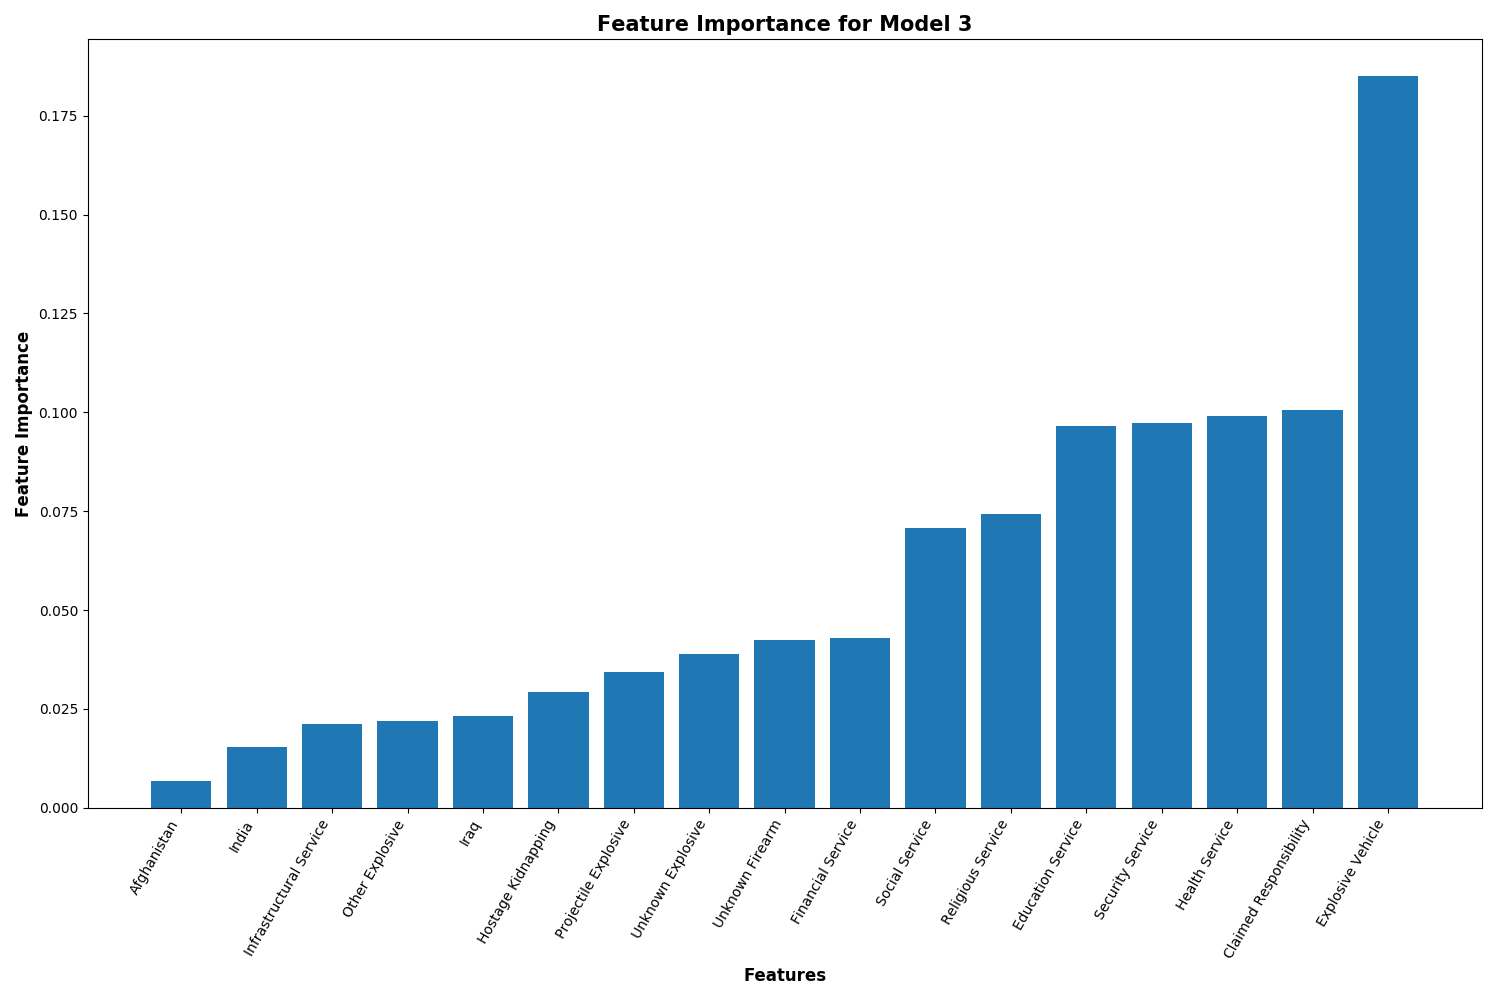
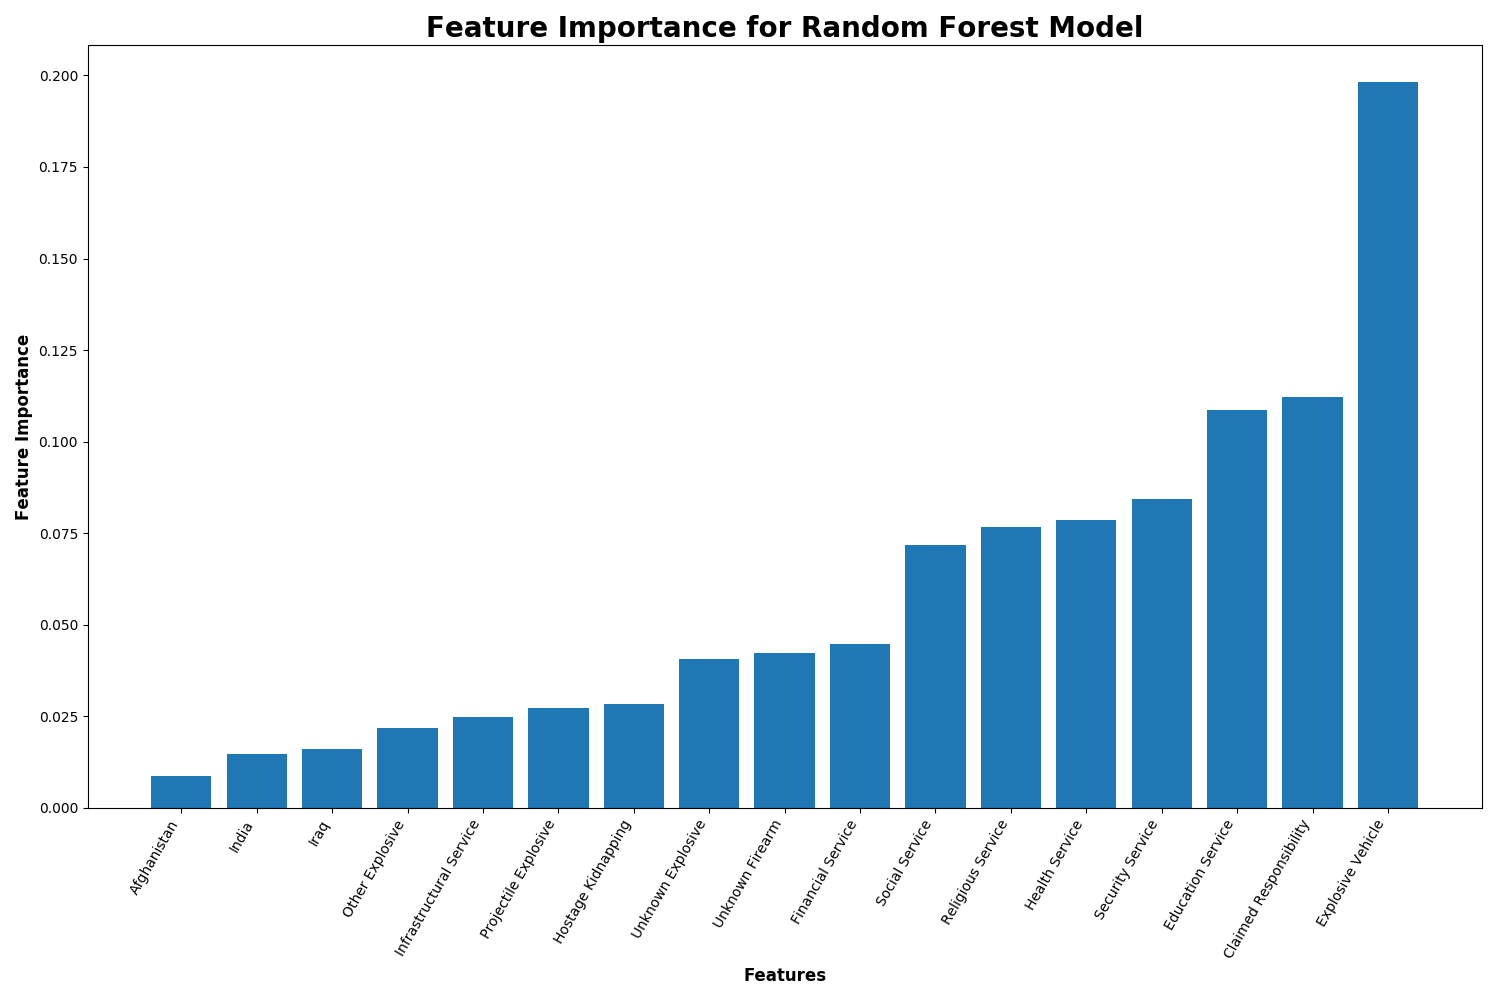
another image fix

diff --git a/code/code_for_modeling.py b/code/code_for_modeling.py
@@ -200,7 +200,7 @@ def feat_imp(importances):
 
     plt.figure(figsize = (15,10))
     plt.bar(feature_names, feature_importances)
-    plt.title('Feature Importance for Model 3', weight='bold', fontsize=15)
+    plt.title('Feature Importance for Random Forest Model', weight='bold', fontsize=15)
     plt.ylabel("Feature Importance", weight='bold', fontsize=12)
     plt.xlabel("Features", weight='bold', fontsize=12)
     plt.xticks(rotation=60, horizontalalignment='right')

diff --git a/code/modeling.py b/code/modeling.py
@@ -1,4 +1,4 @@
-import code_for_analysis as an
+import code_for_modeling as an
 from sklearn.model_selection import train_test_split
 import pandas as pd
 
